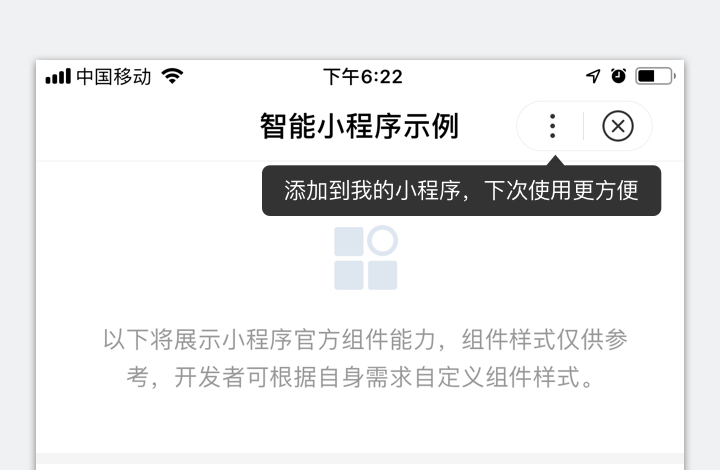
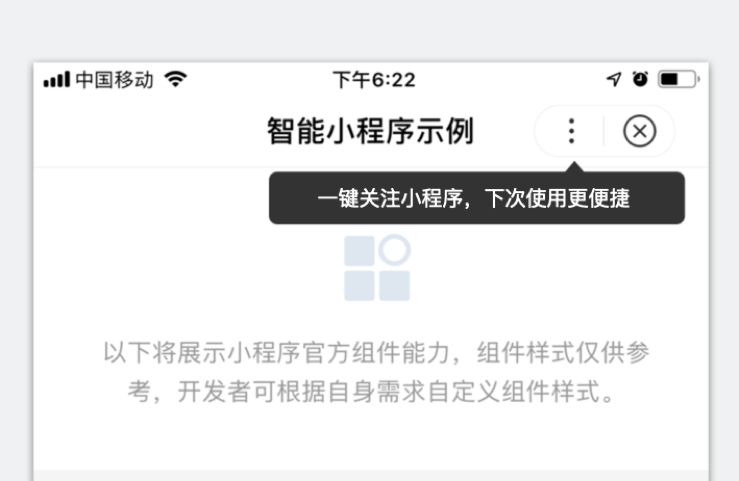
更新图片

diff --git a/source/_posts/develop/devtools/page_menu.md b/source/_posts/develop/devtools/page_menu.md
@@ -14,7 +14,7 @@ sidebar: page_start
 |编辑|**·** 剪切；<p>**·** 复制；<p>**·** 粘贴；<p>**·** 粘贴并匹配样式；<p>**·** 全选；<p>**·** 撤销；<p>**·** 重做；<p>**·** 左缩进；<p>**·** 右缩进；<p>**·** 格式化代码；<p>**·** 代码上移一行；<p>**·** 代码下移一行；<p>**·** 复制并向上粘贴；<p>**·** 复制并向下粘贴；<p>**·** 跳转到文件；<p>**·** 上一个编辑器；<p>**·** 下一个编辑器；<p>**·** 全局查找；<p>**·** 查找/替换；<p>**·** 开始听写...<p>**·** 表情与符号|
 |查看|**·** 工具栏：控制工具栏显示和隐藏；<p>**·**  调试器：控制调试器显示和隐藏；<p>**·** 模拟器：控制模拟器显示和隐藏；<p>**·** 编辑器：控制编辑器显示和隐藏；<p>**·** 目录树：控制项目目录显示和隐藏。|
 |开发|**·** 预览：预览小程序项目；<p>**·** 发布：发布小程序代码；<p>**·** 刷新：刷新模拟器；<p>**·** 编译：编译小程序项目；<p>**·** 编译配置：切换编译模式、添加自定义编译模式；<p>**·** 前后台切换：模拟客户端小程序进入后台运行和返回前台的操作；<p>**·** 清除缓存：清除文件缓存、数据缓存以及授权数据。|
-|工具|**·**真机调试：通过网络连接，对手机上运行的小程序进行调试；<p>**·** 远程调试：使用手机扫描此二维码，即可开始远程调试；<p>**·** 云测试：免费的云真机测试环境；<p>**·** 多设备调试：打开多个主窗口；<p>**·** 工具栏管理：控制工具栏展示状态。|
-|窗口|**·**最小化窗口；<p>**·** 关闭窗口。|
-|设置|**·**快捷键设置：快捷键操作设置；<p>**·** 编辑设置：控制文件保存的行为，编辑器的表现；<p>**·** 代理设置：选择直接连接、手动设置代理；<p>**·** 外观设置：控制编辑器的字体、字号、行距。|
+|工具|**·** 真机调试：通过网络连接，对手机上运行的小程序进行调试；<p>**·** 远程调试：使用手机扫描此二维码，即可开始远程调试；<p>**·** 云测试：免费的云真机测试环境；<p>**·** 多设备调试：打开多个主窗口；<p>**·** 工具栏管理：控制工具栏展示状态。|
+|窗口|**·** 最小化窗口；<p>**·** 关闭窗口。|
+|设置|**·** 快捷键设置：快捷键操作设置；<p>**·** 编辑设置：控制文件保存的行为，编辑器的表现；<p>**·** 代理设置：选择直接连接、手动设置代理；<p>**·** 外观设置：控制编辑器的字体、字号、行距、主题颜色。|
 |帮助|**·** 一键修复：修复编译进程异常退出的情况；<p>**·** 开发者文档；<p>**·** 开发者社区；<p>**·** 问题反馈；<p>**·** 发布历史。|

diff --git a/source/_posts/develop/api/show/nacomponent.md b/source/_posts/develop/api/show/nacomponent.md
@@ -40,28 +40,9 @@ sidebar: nacomponent
 
     **示例代码 1**
 
-        ```javascript
-        swan.showFavoriteGuide({
-            type: 'bar',
-            content:'一键关注小程序',
-            success: res => {
-                console.log('关注成功：', res);
-            },
-            fail: err => {
-                console.log('关注失败：', err);
-            }
-        })
-        ```
-
-2. 气泡引导(type=tip)
-    引导组件 5s 后自动消失，组件箭头指向小程序菜单。
-
-    ![图片](../../../../img/api/nacomponent/弱引导.png)
-    **示例代码 2**
-
     ```javascript
     swan.showFavoriteGuide({
-        type: 'tip',
+        type: 'bar',
         content:'一键关注小程序',
         success: res => {
             console.log('关注成功：', res);
@@ -72,11 +53,34 @@ sidebar: nacomponent
     })
     ```
 
-用户通过引导关注组件“关注小程序”后，可以在百度APP-我的“我的小程序”中看到它。
+2. 气泡引导(type=tip)
+    引导组件 5s 后自动消失，组件箭头指向小程序菜单。
+  
 <div class="m-doc-custom-examples">
-	<div class="m-doc-custom-examples-correct">
-		<img src="../../../../img/design/component/guide_add/2.png">
-	</div>
+    <div class="m-doc-custom-examples-correct">
+        <img src="../../../../img/api/nacomponent/弱引导.png">
+    </div>
+    <div class="m-doc-custom-examples-correct">
+        <img src=" ">
+    </div>  
 </div>
+
+**示例代码 2**
+
+```javascript
+swan.showFavoriteGuide({
+    type: 'tip',
+    content:'一键关注小程序',
+    success: res => {
+        console.log('关注成功：', res);
+    },
+    fail: err => {
+        console.log('关注失败：', err);
+    }
+})
+```
+
+用户通过引导关注组件“关注小程序”后，可以在百度APP-我的“我的小程序”中看到它。
+
 
 

diff --git a/source/_posts/develop/devtools/page_tool.md b/source/_posts/develop/devtools/page_tool.md
@@ -19,16 +19,18 @@ sidebar: page_tool
 </div>
 
 
-* 模拟器、编辑器、调试器按钮：控制主界面模块显示/隐藏。至少需要一个模块显示。
-* 编译按钮：可以设置智能小程序的进入场景、页面参数、进入的页面路径等调试参数。
-* 清缓存按钮：可以便捷的清除工具上的文件缓存、数据缓存、授权缓存和登录状态，方便开发者调试。
-* 刷新按钮：点击可以刷新模拟器。
-* 预览按钮：本地编译产出上传至服务器后生成小程序以及 web 小程序二维码，使用百度App扫码即可查看。
-* 发布按钮：点击发布成功后可以生成体验版以及提交审核，需要登录官网查看。
-* 真机调试按钮：启动真机调试。
-* 远程调试按钮：启动远程调试。
-* 项目信息按钮：可以查看项目的详细信息。
-* 工具按钮：可以进行白屏检测操作。
+|按钮名称|说明|
+|--|--|
+|模拟器、编辑器、调试器按钮|控制主界面模块显示/隐藏。至少需要一个模块显示。|
+|编译按钮|可以设置智能小程序的进入场景、页面参数、进入的页面路径等调试参数。|
+|清缓存按钮|可以便捷的清除工具上的文件缓存、数据缓存、授权缓存和登录状态，方便开发者调试。|
+|刷新按钮|点击可以刷新模拟器。|
+|预览按钮|本地编译产出上传至服务器后生成小程序以及 web 小程序二维码，使用百度App扫码即可查看。|
+|发布按钮|点击发布成功后可以生成体验版以及提交审核，需要登录官网查看。|
+|真机调试按钮|启动真机调试。|
+|远程调试按钮|启动远程调试。|
+|项目信息按钮|可以查看项目的详细信息。|
+|工具按钮|可以进行白屏检测操作。|
 
 
 ![图片](../../../img/tool/main.png)

diff --git a/source/_posts/develop/faq/framworkfaq.md b/source/_posts/develop/faq/framworkfaq.md
@@ -75,3 +75,7 @@ A: swan.createSelectorQuery()返回一个 SelectorQuery 对象实例。可以在
 
 A: 经测试确实出现黑边到问题，但是有的小程序却没有，到开发者后台打开调试模式查看图标发现，正常的图标都是正方形的，有问题的都是圆形的图标，所以导致在添加到主屏幕的时候抓取到的图标没有撑满safri设置的宽高，漏出了黑边。
 解决办法：开发者可到后台重新上传一张144px X 144px的正方形图片。
+
+#### Q：使用自定义组件时，如何设置胶囊字体颜色?
+
+A：请在page的json文件中设置[navigationBarTextStyle](https://smartprogram.baidu.com/docs/develop/tutorial/devjson/)。

diff --git a/source/_posts/develop/api/media/image_swan-previewImage.md b/source/_posts/develop/api/media/image_swan-previewImage.md
@@ -19,7 +19,7 @@ sidebar: image_swan-previewImage
 
 |属性名 |类型  |必填 | 默认值 |说明|
 |---- | ---- | ---- | ----|----|
-|current |String | 否  当前显示图片的链接，不填则默认为 urls 的第一张。|
+|current |String | 否 || 当前显示图片的链接，不填则默认为 urls 的第一张。|
 |urls   | `Array.<string>` |是 | |  需要预览的图片链接列表|
 |images| `Array.<object>` | 否 | - | 支持原图的图片链接列表 |
 |success| Function |   否  | | 接口调用成功的回调函数|

diff --git a/source/_posts/develop/devtools/commandtool.md b/source/_posts/develop/devtools/commandtool.md
@@ -17,7 +17,7 @@ npm i swan-toolkit -g
 
 - 环境依赖：[Node.js](https://nodejs.org)
 - 亦可局部安装，通过`npx`或`node_modules/.bin/swan`执行。
-- 本工具跨平台，可以部署在windows/mac/Linux，可用于产品集成流水线部署。
+- 本工具跨平台，可以部署在windows/Mac/Linux，可用于产品集成流水线部署。
 - （全局）安装后即可使用全局shell命令`swan`。
 
 ### 更新

diff --git a/source/_posts/develop/devtools/set_outlook.md b/source/_posts/develop/devtools/set_outlook.md
@@ -11,4 +11,13 @@ sidebar: set_outlook
 * 字号
 * 间距
 
-![图片](../../../img/tool/face-set.png)
+
+
+<div class="m-doc-custom-examples">
+    <div class="m-doc-custom-examples-correct">
+        <img src="../../../img/tool/face-set.png">
+    </div>
+    <div class="m-doc-custom-examples-correct">
+        <img src=" ">
+    </div>   
+</div>

diff --git a/source/_posts/develop/serverapi/sendintroduction.md b/source/_posts/develop/serverapi/sendintroduction.md
@@ -1,5 +1,5 @@
 ---
-title: 下发条件说明
+title: 模板消息下发条件 
 header: develop
 nav: serverapi
 sidebar: sendintroduction

diff --git a/source/_posts/develop/serverapi/open_infomation.md b/source/_posts/develop/serverapi/open_infomation.md
@@ -1,5 +1,5 @@
 ---
-title: 消息模板介绍
+title: 模板消息介绍
 header: develop
 nav: serverapi
 sidebar: open_infomation

diff --git a/source/_posts/develop/serverapi/useintroduction.md b/source/_posts/develop/serverapi/useintroduction.md
@@ -1,5 +1,5 @@
 ---
-title: 使用说明
+title: 模板消息使用说明
 header: develop
 nav: serverapi
 sidebar: useintroduction
